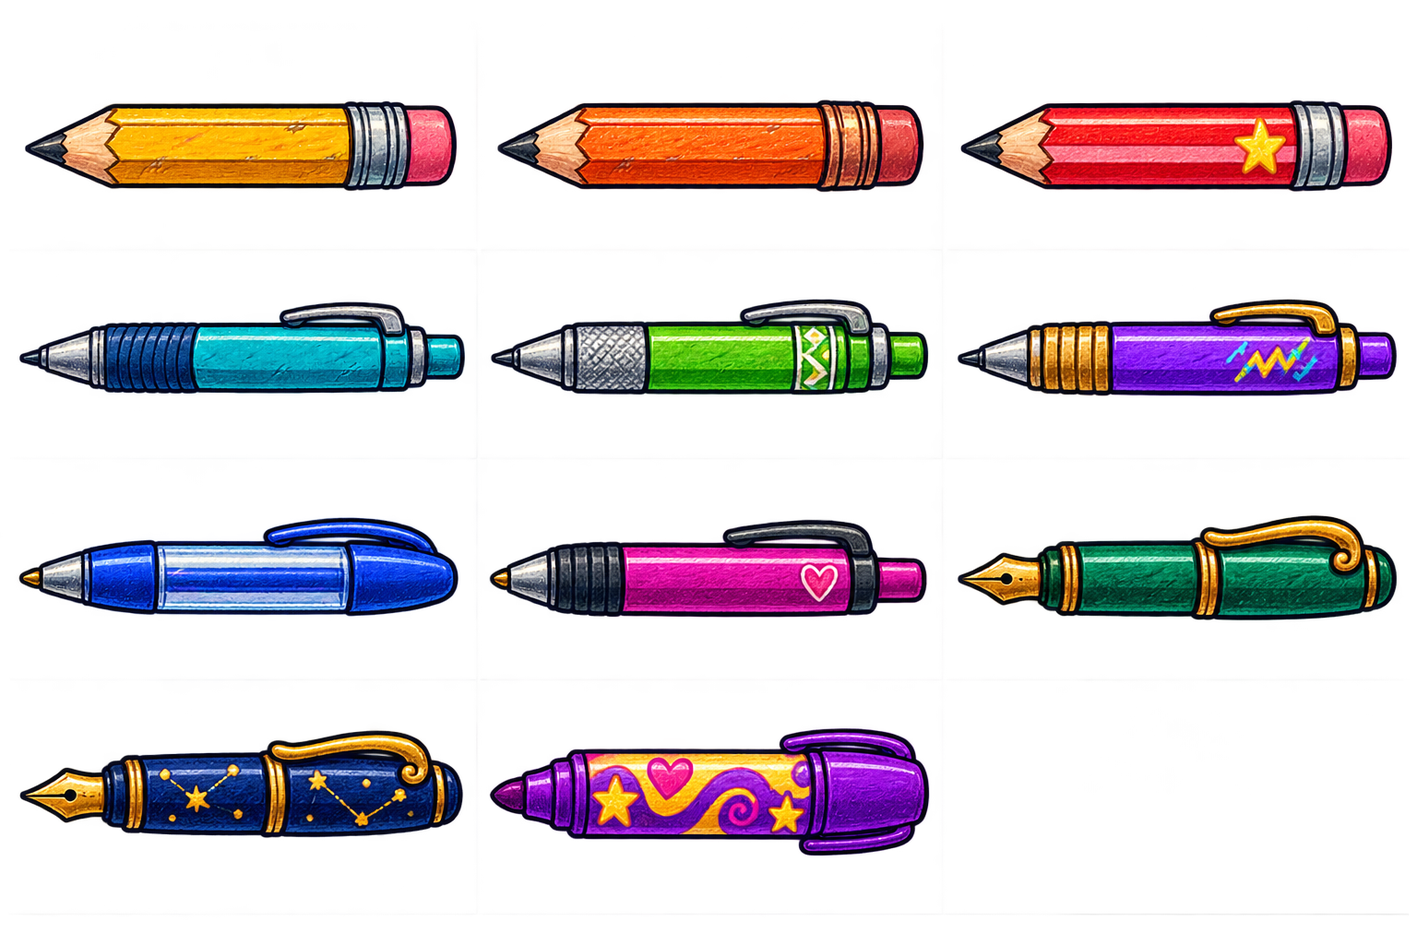
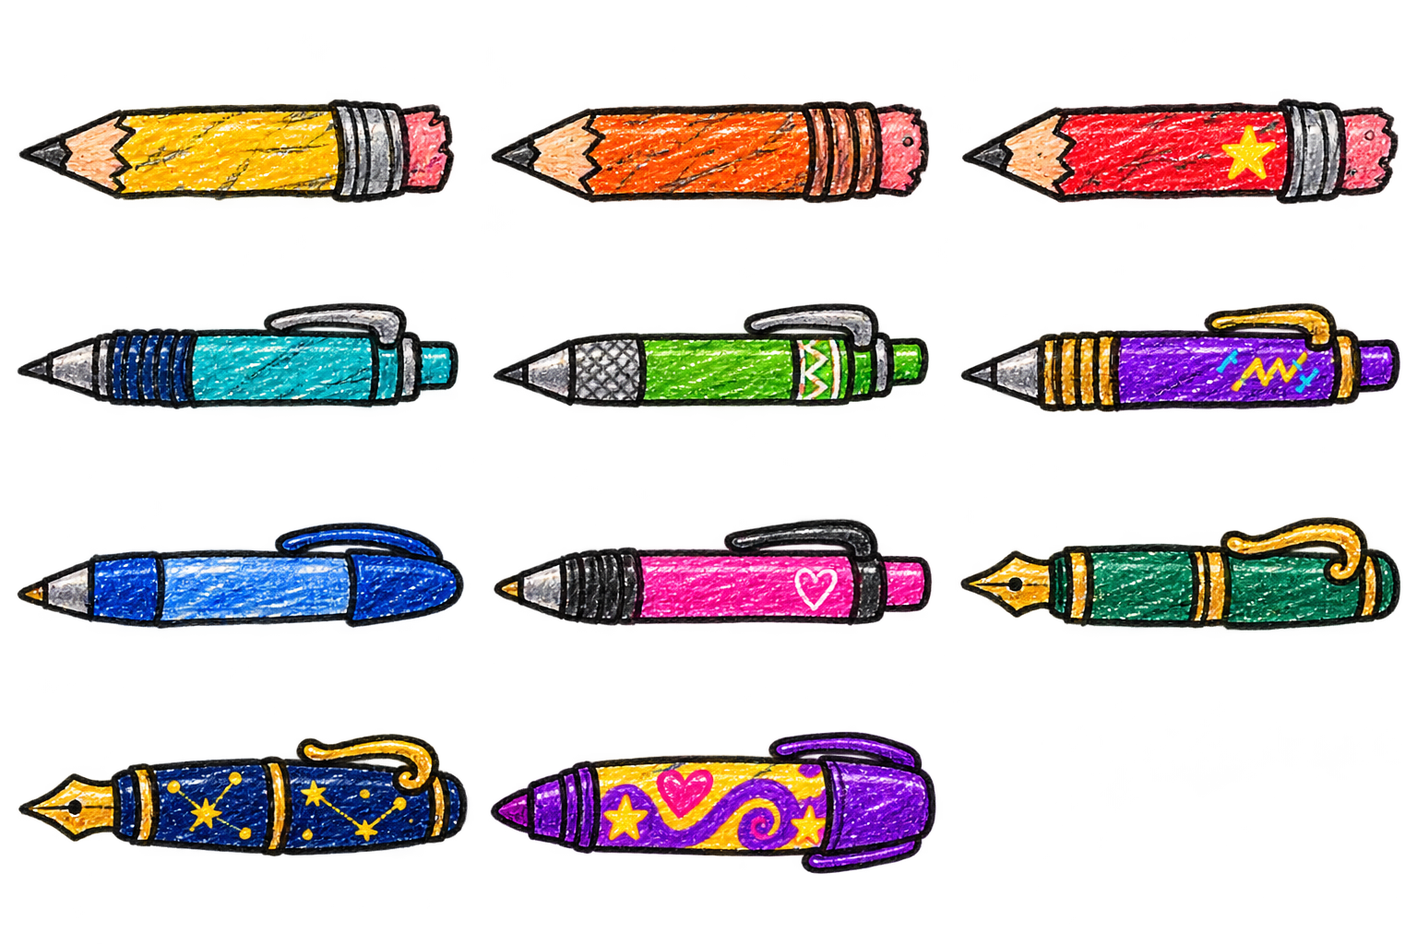
Bring Stevie’s scrap tree and Pencil Case to life

diff --git a/index.html b/index.html
@@ -81,7 +81,7 @@
         <button class="paper-slip" id="startBtn">Play <span aria-hidden="true">→</span></button>
         <button class="paper-slip" id="splashHubBtn">Notebook</button>
         <button class="paper-slip" id="splashOptionsBtn">Settings</button>
-        <div class="splash-footer"><span id="appVersion" class="alpha-version">Alpha 0.1.74</span><small class="copyright-notice">© 2026 ShootyQ. All rights reserved.</small></div>
+        <div class="splash-footer"><span id="appVersion" class="alpha-version">Alpha 0.1.75</span><small class="copyright-notice">© 2026 ShootyQ. All rights reserved.</small></div>
       </div>
     </div>
 
@@ -349,7 +349,20 @@
    <p class="beta-margin-note" style="left:1450px;top:2200px;--tilt:5deg"><span class="scribble-word"><span class="scribble-letter">r</span><span class="scribble-letter">e</span><span class="scribble-letter">m</span><span class="scribble-letter">e</span><span class="scribble-letter">m</span><span class="scribble-letter">b</span><span class="scribble-letter">e</span><span class="scribble-letter">r</span><span class="scribble-letter">:</span></span> <span class="scribble-word"><span class="scribble-letter">c</span><span class="scribble-letter">i</span><span class="scribble-letter">r</span><span class="scribble-letter">c</span><span class="scribble-letter">l</span><span class="scribble-letter">e</span><span class="scribble-letter">s</span></span><br><span class="scribble-word"><span class="scribble-letter">d</span><span class="scribble-letter">o</span></span> <span class="scribble-word"><span class="scribble-letter">N</span><span class="scribble-letter">O</span><span class="scribble-letter">T</span></span> <span class="scribble-word"><span class="scribble-letter">n</span><span class="scribble-letter">e</span><span class="scribble-letter">e</span><span class="scribble-letter">d</span></span> <span class="scribble-word"><span class="scribble-letter">t</span><span class="scribble-letter">o</span></span> <span class="scribble-word"><span class="scribble-letter">b</span><span class="scribble-letter">e</span></span> <span class="scribble-word"><span class="scribble-letter">p</span><span class="scribble-letter">e</span><span class="scribble-letter">r</span><span class="scribble-letter">f</span><span class="scribble-letter">e</span><span class="scribble-letter">c</span><span class="scribble-letter">t</span></span></p>
    <p class="beta-margin-note beta-class-note" style="left:1750px;top:150px;--tilt:8deg"><span class="scribble-word"><span class="scribble-letter">m</span><span class="scribble-letter">a</span><span class="scribble-letter">t</span><span class="scribble-letter">h</span><span class="scribble-letter">:</span></span> <span class="scribble-word"><span class="scribble-letter">7</span></span> <span class="scribble-word"><span class="scribble-letter">×</span></span> <span class="scribble-word"><span class="scribble-letter">8</span></span> <span class="scribble-word"><span class="scribble-letter">=</span></span> <s><span class="scribble-word"><span class="scribble-letter">5</span><span class="scribble-letter">4</span></span></s> <span class="scribble-word"><span class="scribble-letter">5</span><span class="scribble-letter">6</span><span class="scribble-letter">!</span><span class="scribble-letter">!</span></span><br><span class="scribble-word"><span class="scribble-letter">c</span><span class="scribble-letter">o</span><span class="scribble-letter">u</span><span class="scribble-letter">n</span><span class="scribble-letter">t</span></span> <span class="scribble-word"><span class="scribble-letter">i</span><span class="scribble-letter">t</span></span> <span class="scribble-word"><span class="scribble-letter">a</span><span class="scribble-letter">g</span><span class="scribble-letter">a</span><span class="scribble-letter">i</span><span class="scribble-letter">n</span><span class="scribble-letter">,</span></span> <span class="scribble-word"><span class="scribble-letter">S</span><span class="scribble-letter">t</span><span class="scribble-letter">e</span><span class="scribble-letter">v</span><span class="scribble-letter">i</span><span class="scribble-letter">e</span><span class="scribble-letter">.</span></span></p>
    <p class="beta-margin-note beta-class-note" style="left:1450px;top:1760px;--tilt:-11deg"><span class="scribble-word"><span class="scribble-letter">s</span><span class="scribble-letter">c</span><span class="scribble-letter">i</span><span class="scribble-letter">e</span><span class="scribble-letter">n</span><span class="scribble-letter">c</span><span class="scribble-letter">e</span></span> <span class="scribble-word"><span class="scribble-letter">n</span><span class="scribble-letter">o</span><span class="scribble-letter">t</span><span class="scribble-letter">e</span><span class="scribble-letter">s</span><span class="scribble-letter">:</span></span><br><span class="scribble-word"><span class="scribble-letter">f</span><span class="scribble-letter">i</span><span class="scribble-letter">r</span><span class="scribble-letter">e</span></span> <span class="scribble-word"><span class="scribble-letter">+</span></span> <span class="scribble-word"><span class="scribble-letter">s</span><span class="scribble-letter">l</span><span class="scribble-letter">i</span><span class="scribble-letter">m</span><span class="scribble-letter">e</span></span> <span class="scribble-word"><span class="scribble-letter">=</span></span> <span class="scribble-word"><span class="scribble-letter">b</span><span class="scribble-letter">a</span><span class="scribble-letter">d</span></span> <span class="scribble-word"><span class="scribble-letter">s</span><span class="scribble-letter">m</span><span class="scribble-letter">e</span><span class="scribble-letter">l</span><span class="scribble-letter">l</span><span class="scribble-letter">.</span></span><br><span class="scribble-word"><span class="scribble-letter">d</span><span class="scribble-letter">o</span></span> <span class="scribble-word"><span class="scribble-letter">N</span><span class="scribble-letter">O</span><span class="scribble-letter">T</span></span> <span class="scribble-word"><span class="scribble-letter">t</span><span class="scribble-letter">r</span><span class="scribble-letter">y</span></span> <span class="scribble-word"><span class="scribble-letter">a</span><span class="scribble-letter">t</span></span> <span class="scribble-word"><span class="scribble-letter">l</span><span class="scribble-letter">u</span><span class="scribble-letter">n</span><span class="scribble-letter">c</span><span class="scribble-letter">h</span><span class="scribble-letter">.</span></span></p>
-   <div class="beta-milk-stain" style="left:2110px;top:2170px;--tilt:17deg"><svg width="190" height="170" viewBox="0 0 190 170"><g fill="#885832"><path opacity=".09" d="M38 30q19-18 43-7l17-8 30 19 17 12-5 20 19 18-20 27-20 7-15 21-34-6-23 9-22-24 3-23-12-26 13-18Z"/><ellipse opacity=".13" cx="166" cy="121" rx="7" ry="11"/><ellipse opacity=".1" cx="26" cy="146" rx="5" ry="8"/><circle opacity=".1" cx="146" cy="16" r="4"/></g><ellipse cx="86" cy="75" rx="53" ry="49" fill="none" stroke="#885832" opacity=".09" stroke-width="8" transform="rotate(-12 86 75)"/></svg><p><span class="scribble-word"><span class="scribble-letter">o</span><span class="scribble-letter">o</span><span class="scribble-letter">p</span><span class="scribble-letter">s</span><span class="scribble-letter">.</span></span> <span class="scribble-word"><span class="scribble-letter">c</span><span class="scribble-letter">h</span><span class="scribble-letter">o</span><span class="scribble-letter">c</span><span class="scribble-letter">o</span><span class="scribble-letter">l</span><span class="scribble-letter">a</span><span class="scribble-letter">t</span><span class="scribble-letter">e</span></span> <span class="scribble-word"><span class="scribble-letter">m</span><span class="scribble-letter">i</span><span class="scribble-letter">l</span><span class="scribble-letter">k</span><span class="scribble-letter">.</span></span></p></div>
+   <div class="beta-milk-stain" style="left:2070px;top:2130px;--tilt:17deg"><img src="assets/art/ui/chocolate-milk-stain.png" alt="" draggable="false"></div>
+   <img class="beta-page-wear" src="assets/art/ui/beta-page-doodles.svg" alt="" draggable="false">
+
+   <figure class="beta-margin-monster beta-new-doodle" style="left:185px;top:460px;--tilt:-9deg"><img src="assets/art/bouncer.png" alt="" draggable="false"><figcaption>boing. boing. BONK.</figcaption></figure>
+   <figure class="beta-margin-monster beta-new-doodle" style="left:1740px;top:1380px;--tilt:8deg"><img src="assets/art/flanker.png" alt="" draggable="false"><figcaption>this one cheats</figcaption></figure>
+   <figure class="beta-margin-monster beta-new-doodle" style="left:1720px;top:880px;--tilt:-7deg"><img src="assets/art/tank.png" alt="" draggable="false"><figcaption>tiny legs. big plans.</figcaption></figure>
+   <figure class="beta-margin-monster beta-new-doodle" style="left:180px;top:1530px;--tilt:-13deg"><img src="assets/art/scrubber.png" alt="" draggable="false"><figcaption>do NOT erase homework</figcaption></figure>
+   <figure class="beta-margin-monster beta-new-doodle" style="left:2080px;top:270px;--tilt:11deg"><img src="assets/art/catapulter.png" alt="" draggable="false"><figcaption>probably safe?</figcaption></figure>
+   <figure class="beta-margin-monster beta-new-doodle" style="left:2010px;top:1940px;--tilt:-8deg"><img src="assets/art/school-catapult.png" alt="" draggable="false"><figcaption>tested on lunch peas</figcaption></figure>
+   <p class="beta-margin-note beta-new-note" style="left:110px;top:2420px;--tilt:-8deg">math later. monsters NOW.</p>
+   <p class="beta-margin-note beta-new-note" style="left:1260px;top:2360px;--tilt:12deg">if it looks silly, keep it.</p>
+   <p class="beta-margin-note beta-new-note" style="left:2070px;top:150px;--tilt:7deg">DO NOT lend to Max</p>
+   <p class="beta-margin-note beta-new-note" style="left:1660px;top:1870px;--tilt:-12deg">a very normal school project</p>
+   <p class="beta-margin-note beta-new-note" style="left:230px;top:620px;--tilt:-8deg">needs more bounce?</p>
   </div><svg id="betaTreePaths" viewBox="0 0 2400 2600" aria-hidden="true"></svg><img class="beta-tree-stevie" src="assets/art/stevie.png" alt="Stevie" draggable="false"><div id="betaHeldTool" aria-hidden="true"></div><div id="betaTreeNodes"></div></div>
   <h2 id="betaTreeTitle" class="beta-map-title">my scrap tree <small>beta!</small></h2>
   <button id="closeBetaScrapsBtn" class="beta-map-note beta-map-back">← Back</button>
@@ -400,6 +413,7 @@
     <p>Recent updates, newest first. Your run pauses while this screen is open.</p>
     <!-- CHANGELOG: prepend a new article for each future player-facing update. Keep older entries. -->
     <div id="changelogEntries" class="build-upgrades">
+      <article class="build-entry"><h3>Alpha 0.1.75 · Stevie’s well-loved project page</h3><p>The BETA Scrap Tree has more crooked doodles, abandoned monster ideas, pencil smudges and a real chocolate-milk spill. Pencil Case opens into a zip-pouch collection of all eleven drawing tools, with collected and upcoming tools clearly marked. Rougher pencil-and-crayon tools fit Stevie’s hand as they upgrade. Existing purchases and prices are unchanged.</p></article>
       <article class="build-entry"><h3>Alpha 0.1.74 · Wobblechomp bites back</h3><p>Wobblechomp rolls in, splats and roars. Damage advances phase one; randomized attacks, hungry wall gulps and optional one-slash limb removal replace the six-cut checklist. Angled walls redirect his warned charges in the showdown. Four spike hits win, each with a flying splat. Hit the well to unlock infinite ink, or hit the fallen eye to stop its wall-erasing laser. Both phases resist outside conditions, and missed charges hurt. The optional victory doodle is now one automatically attached waving arm.</p></article>
       <article class="build-entry"><h3>Alpha 0.1.73 · Return to sender… and friends</h3><p>Reflected Pew-Pew pencils pierce through exposed regular monsters on their way back, defeating every one they touch. Chonk shields, underground protection and boss mechanics still apply. Pew-Pew keeps his later-wave return requirements.</p></article>
       <article class="build-entry"><h3>Alpha 0.1.72 · Clear space for the doodles</h3><p>Health, ink and wave stats sit above the playable paper, so monsters no longer hide behind them. Android controls have their own space below the arena. Monster-introduction buttons use clear light lettering on blue.</p></article>

diff --git a/js/beta-scraps.js b/js/beta-scraps.js
@@ -66,6 +66,10 @@ DoodleDefender.systems.betaScraps=function(game){
   if(bought){selected=id;renderBetaTree();$('betaTreeStatus').textContent=(id==='start'?'Pencil acquired! Choose a branch.':state.perk.name+' is ready for your next run.')+(game.api.notebookSnapshot().storageIssue?' Saving is unavailable; this lasts for this visit.':'');($('betaBuyNode').disabled?$('betaFoldNote'):$('betaBuyNode')).focus?.({preventScroll:true});}
   return bought;
  }
+ function pencilCollection(rank){
+  const names=['Fresh pencil','Orange crush','Star student','Clickety teal','Green machine','Purple click','Blue scribbler','Love-letter pen','Jade nib','Space ink','Big ideas'];
+  return '<div class="case-unzip" aria-hidden="true"></div><p class="case-owner">property of Stevie (please return!!)</p><div class="case-collection" aria-label="My drawing tool collection">'+names.map((name,i)=>'<figure class="case-tool '+(i<=rank?'earned':i===rank+1?'next-tool':'future-tool')+'">'+game.api.toolIllustration(i,'')+'<figcaption><b>'+name+'</b><small>'+(i<rank?'✓ collected':i===rank?'★ in my hand':i===rank+1?'next treasure · rank '+i:'rank '+i)+'</small></figcaption></figure>').join('')+'</div><p class="case-scribble">good tools. questionable doodles.</p>';
+ }
  function renderDetails(){
   const n=nodes.get(selected),s=betaNodeState(selected),p=game.api.notebookSnapshot();
   $('betaNodeTitle').textContent=n.name;$('betaNodeTier').textContent=n.id==='start'?'START HERE · FREE':n.later?'STEVIE’S FUTURE HOMEWORK':(branches.find(b=>b.id===n.branch)?.title||'Pencil Case')+' · Rank '+s.rank+' / '+s.max;
@@ -73,7 +77,9 @@ DoodleDefender.systems.betaScraps=function(game){
   $('betaNodeEffect').textContent=s.perk?s.perk.effect(s.rank):n.link?'+'+p.levels.tool*8+' base wall HP from your drawing tool':'';
   const children=definitions.filter(d=>d.parent===n.id&&!d.later),childNames=children.map(d=>d.name).join(' and ');
   $('betaNodeRequirement').textContent=s.reason||(children.length&&s.rank===0?'One rank opens '+childNames+'. ':'')+'Next: '+(s.perk?s.perk.effect(s.rank+1):'Open the branches');
-  $('betaNodeArt').innerHTML=n.id==='tool'?game.api.toolIllustration(p.levels.tool,''):'';
+  $('betaNodeNote').classList?.toggle('pencil-case-note',n.id==='tool');
+  $('betaNodeArt').innerHTML=n.id==='tool'?pencilCollection(p.levels.tool):'';
+  for(const element of $('betaNodeArt').querySelectorAll?.('.case-owner,.case-scribble,.case-tool b')||[])handwrite(element);
   const button=$('betaBuyNode');button.disabled=!s.canBuy;button.textContent=n.link?'View Pencil Case →':s.reason||('Spend '+s.price+' scraps → '+(n.id==='start'?'grab my pencil':'rank '+(s.rank+1)));
   if(n.link){button.disabled=false;button.onclick=()=>selectBetaNode(n.link,true);}else button.onclick=()=>buyBetaNode(selected);
  }
@@ -100,10 +106,12 @@ DoodleDefender.systems.betaScraps=function(game){
  function renderBetaTree(){
   const p=game.api.notebookSnapshot();$('betaTreeBank').textContent=p.scraps;
   $('betaHeldTool').innerHTML=game.api.toolIllustration(p.levels.tool,'');
+  const grip=game.api.toolGrip(p.levels.tool);$('betaHeldTool').style.top=(930-74*grip.y)+'px';$('betaHeldTool').style.transformOrigin=(grip.x*100)+'% '+(grip.y*100)+'%';
   const list=$('betaTreeNodes');list.innerHTML='';
   for(const b of branches){const heading=document.createElement('button');heading.className='beta-branch-title';heading.id='beta-branch-'+b.id;heading.setAttribute?.('aria-label',b.title+' branch');heading.style.left=b.x+'px';heading.style.top=(b.y-4)+'px';heading.style.width=b.w+'px';heading.textContent=b.name;heading.onclick=()=>selectBetaNode(b.first);list.appendChild(heading);}
   for(const n of definitions){const state=betaNodeState(n.id),button=document.createElement('button');button.id='beta-node-'+n.id;button.className='beta-tree-node'+(n.later?' future':state.rank>0?' owned':state.canBuy?' available':' locked');
    button.style.left=n.x+'px';button.style.top=n.y+'px';button.style.width=n.w+'px';button.setAttribute?.('aria-pressed',String(noteOpen&&selected===n.id));
+   if(n.id==='tool'){const preview=document.createElement('div');preview.className='case-node-preview';preview.innerHTML=game.api.toolIllustration(p.levels.tool,'');button.appendChild(preview);}
    const title=document.createElement('strong'),label=document.createElement('span');title.textContent=n.name;label.textContent=n.perk==='circles'&&!game.api.shapeStudiesAvailable()?'Beat wave 10 · Shapes locked':n.later?'later…':n.id==='start'?(state.owned?'✓ Start complete':'0 scraps · start here'):state.owned?'✓ Complete':!state.unlocked&&state.rank===0?'After '+nodes.get(n.parent).name:state.rank+' / '+state.max+' · '+state.price+' scraps';button.appendChild(title);button.appendChild(label);button.onclick=()=>selectBetaNode(n.id);list.appendChild(button);
   }
   for(const element of list.querySelectorAll?.('.beta-branch-title,strong,.beta-tree-node > span')||[])handwrite(element);
@@ -174,5 +182,6 @@ DoodleDefender.systems.betaScraps=function(game){
   cancelBetaGesture();view.x=b.w/2-cx*view.scale;view.y=b.h/2-cy*view.scale;applyView();
  });
  window.addEventListener('blur',cancelBetaGesture);
+ for(const element of document.querySelectorAll?.('.beta-new-note,.beta-new-doodle figcaption')||[])handwrite(element);
  const api={betaTreeSnapshot,openBetaTreeView,foldBetaNote,handleBetaTreeKey,betaNodeState,buyBetaNode,renderBetaTree,selectBetaNode,fitBetaTree,zoomBetaTree,betaViewSnapshot,cancelBetaGesture};Object.assign(game.api,api);return api;
 };

diff --git a/styles.css b/styles.css
@@ -1347,3 +1347,26 @@ html.native-app #freehandMeter{top:8px!important}
 html.native-app #bossOvertime{top:8px}
 /* Match each filled action's lettering to its actual background. */
 #monsterIntroOverlay #continueMonsterIntroBtn{background:#315d8c;color:#fffaf0;border-color:#24466d;text-shadow:none;opacity:1}
+
+/* Stevie has actually carried this page around in his backpack. */
+.beta-page-wear{position:absolute;inset:0;width:100%;height:100%;pointer-events:none}
+.beta-new-doodle{opacity:.67}.beta-new-note{opacity:.52;max-width:255px;font-size:25px}
+.beta-milk-stain{width:300px;opacity:.64;mix-blend-mode:multiply}.beta-milk-stain img{display:block;width:100%;height:auto}
+.beta-tree-stevie{z-index:2}#betaHeldTool{z-index:1;left:1131.5px;width:148px;height:74px;transform:rotate(110deg)}
+#beta-node-tool{padding:18px 45px 10px;min-height:100px;overflow:visible}
+#beta-node-tool::before{inset:-13px -18px;background:url('assets/art/ui/pencil-case.svg') center/100% 100% no-repeat}
+#beta-node-tool::after{display:none}#beta-node-tool strong{position:relative;font-size:29px;color:#354f43}
+#beta-node-tool > span{position:relative;font-size:19px;color:#4e5947}
+.case-node-preview{position:absolute;left:5px;top:-53px;width:145px;transform:rotate(-12deg);z-index:-1;pointer-events:none}.case-node-preview .instrument-hero{width:100%;margin:0}
+.beta-node-note.pencil-case-note{width:min(600px,calc(100% - 24px));background-image:url('assets/art/ui/beta-unfolded-note.svg');padding:27px 25px 18px}
+.pencil-case-note #betaNodeArt{display:block}.pencil-case-note h3{margin-bottom:2px}.case-owner{color:#69694d;transform:rotate(-2deg);font-size:17px!important;margin:4px 0 12px!important}
+.case-unzip{height:24px;background:repeating-linear-gradient(90deg,#ddc995 0 3px,#424d39 3px 5px);border:7px solid #74836a;border-radius:45% 4px 35% 4px;box-shadow:0 3px 0 #40543d;transform:rotate(1deg);position:relative;margin:12px 0 8px}
+.case-unzip::after{content:'';position:absolute;right:-4px;top:-9px;width:12px;height:30px;border:3px solid #514b39;background:#d6bf86;border-radius:4px;transform:rotate(15deg)}
+.case-collection{display:grid;grid-template-columns:repeat(3,minmax(0,1fr));gap:11px 12px;padding:16px 13px 18px;background:#899779 url('assets/art/ui/pencil-case.svg') center/cover;border:3px solid #4b5a43;border-radius:4% 2% 6% 3%;box-shadow:inset 0 0 0 4px #d2c69c;position:relative}
+.case-tool{margin:0;min-width:0;padding:4px 5px 6px;position:relative;background:#f4ebd4;clip-path:polygon(1% 2%,98% 0,100% 96%,2% 100%);transform:rotate(-2deg)}
+.case-tool:nth-child(even){transform:rotate(2deg)}#betaNodeArt .case-tool .instrument-hero{width:100%;max-width:none;margin:-6px 0 -12px}.case-tool figcaption{text-align:center;line-height:1.05;color:#444c3e;font-size:17px}.case-tool b{font-weight:400;display:block}.case-tool small{display:block;font-size:13px;margin-top:4px;color:#687041}
+.case-tool.future-tool{background:#d5d6bd}.case-tool.future-tool .instrument-hero{opacity:.35;filter:grayscale(1)}.case-tool.next-tool{background:#fff0bd}.case-tool.next-tool small{color:#8b5527}.case-tool.earned small{color:#396741}.case-scribble{font-size:16px!important;text-align:right;color:#756552;transform:rotate(-2deg);margin:7px 0!important}
+.pencil-case-note .case-collection{animation:case-unfold .25s ease-out}.pencil-case-note #betaBuyNode{background:#ecedce;clip-path:polygon(1% 3%,98% 0,100% 95%,2% 100%);color:#365431}
+@keyframes case-unfold{from{opacity:.2;transform:translateY(-8px) rotate(-2deg)}to{opacity:1;transform:none}}
+@media(max-width:600px){.beta-node-note.pencil-case-note{padding:25px 19px 16px}.case-collection{gap:7px;padding:12px 8px}.case-tool{padding:3px 3px 6px}.case-tool figcaption{font-size:15px}.case-tool small{font-size:12px}.pencil-case-note #betaNodeDescription{font-size:17px}}
+@media(prefers-reduced-motion:reduce){.pencil-case-note .case-collection{animation:none}}

diff --git a/js/upgrades.js b/js/upgrades.js
@@ -55,6 +55,7 @@ function toolArt(rank){
   rank=game.api.clamp(Math.floor(rank)||0,0,10);const row=Math.floor(rank/3);
   return {rank,col:rank%3,row,y:[62.5,52.3,46.1,37.5][row],sockets:rank>=10?[32,47,62,77]:rank>=6?[42,56,70]:[48,65]};
 }
+function toolGrip(rank){return {x:.74,y:toolArt(rank).y/100};}
 function toolIllustration(rank,sockets=null){
   const version=document.documentElement?.dataset?.build,query=version?'?v='+encodeURIComponent(version):'',art=toolArt(rank);
   if(sockets===null)sockets=art.sockets.map(x=>`<span class="tool-socket" style="--socket-x:${x}%;--socket-y:${art.y}%"><span class="socket-plus">+</span></span>`).join('');
@@ -435,7 +436,7 @@ function chooseSpecialization(spec){
   game.api.setMsg('Specialization: '+({defense:'Fortress',ink:'Ink Alchemist',chaos:'Chaos'}[spec]))
 }
 for(const u of [...game.catalog.upgrades,...game.catalog.synergyDefs])u.desc=game.api.paperLabel(u.desc);
-const api = { inspectReward, takeInspectedReward, clearRewardPreview, upgradeArtworkInfo, upgradeArtworkMarkup, applyUpgrade, isOneTimeUpgrade:name=>oneTimeUpgrades.has(name), toolIllustration, renderDevReward, upgradeLevels, upgradePreview, equippedEffects, resetRewardPlan, renderTool, selectReward, upgradeArtwork, luckExplanation, upgradeAvailable, checkSynergies, openUpgrade, rarityRoll, upgradeWeight, weightedPick, getUpgrade, rollCards, chooseUpgrade, reroll, chooseSpecialization };
+const api = { inspectReward, takeInspectedReward, clearRewardPreview, upgradeArtworkInfo, upgradeArtworkMarkup, applyUpgrade, isOneTimeUpgrade:name=>oneTimeUpgrades.has(name), toolIllustration, toolGrip, renderDevReward, upgradeLevels, upgradePreview, equippedEffects, resetRewardPlan, renderTool, selectReward, upgradeArtwork, luckExplanation, upgradeAvailable, checkSynergies, openUpgrade, rarityRoll, upgradeWeight, weightedPick, getUpgrade, rollCards, chooseUpgrade, reroll, chooseSpecialization };
 Object.assign(game.api, api);
 game.dom.$('takeUpgradeBtn').onclick=takeInspectedReward;game.dom.$('closeUpgradeDetails').onclick=()=>clearRewardPreview(true);
 game.dom.$('upgradeDetails').onkeydown=e=>{if(e.key==='Escape'){e.preventDefault();clearRewardPreview(true)}};

diff --git a/assets/art/ui/README.md b/assets/art/ui/README.md
@@ -20,3 +20,10 @@ transparent generated artwork, retained unedited: a yellow wooden pencil with
 two empty metal sockets. Effect icons and numeric levels are separate HTML
 layers so they follow the actual equipped build. The splash pencil is an inline
 SVG with its graphite point at the animation origin for precise ink alignment.
+
+BETA Scrap Tree, Alpha 0.1.75: `chocolate-milk-stain.png` is original
+transparent OpenAI-generated dried cocoa-milk artwork, shown without a label.
+`beta-page-doodles.svg` and `pencil-case.svg` are original vector drawings:
+rubbed pencil marks, rejected monsters and homework, plus a stitched school
+pouch. The extra monster studies reuse the game's own character art. These
+static decorations sit behind the interactive scraps and ignore all input.

diff --git a/assets/art/tools/README.md b/assets/art/tools/README.md
@@ -20,3 +20,7 @@ Each paid rank grants +8 base wall HP; effect slots remain two through rank 5,
 three at ranks 6–9, and four at rank 10. Legacy Fresh Pencil purchases are refunded
 once through Notebook save-version migration. Previous `tool-tiers.png`, SVG
 icons and `slot-pencil.png` remain available for historical references.
+
+Alpha 0.1.75 redraws the same atlas with scratchy graphite outlines and uneven
+crayon fill to match Stevie's sketch. The BETA tree anchors each rank at the
+same hand grip and displays the collection inside an illustrated pencil case.
